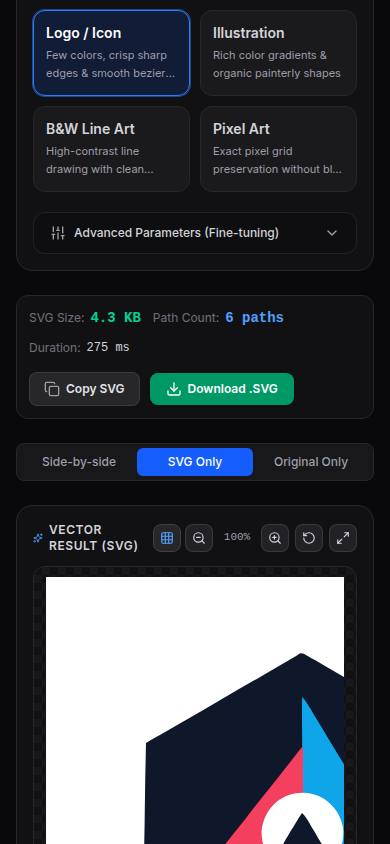
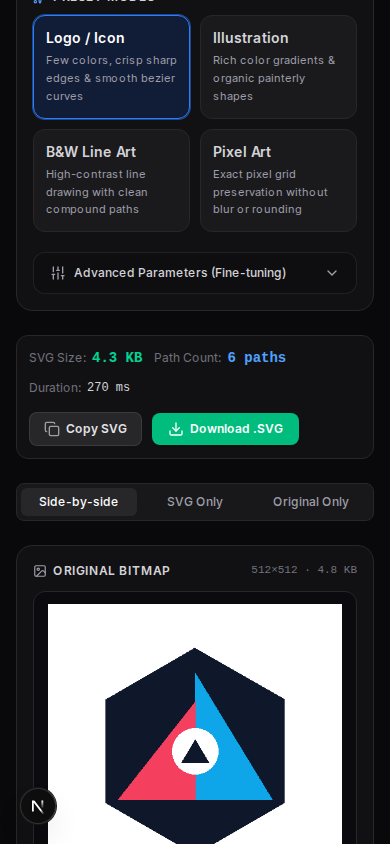
fix(image-to-svg): fix svg preview scaling with responsive viewBox and contain mode

Changed region(s): [[0.0308, 0.3697, 0.9231, 1.0], [0.0615, 0.0, 0.8615, 0.3389], [0.8308, 0.3081, 0.8615, 0.3389]]

diff --git a/src/components/tools/ImageToSvgTool.tsx b/src/components/tools/ImageToSvgTool.tsx
@@ -20,7 +20,6 @@ import {
     Grid,
     RefreshCw,
     AlertCircle,
-    Info,
 } from "lucide-react";
 import { cn, formatBytes } from "@/lib/utils";
 import { useLanguage } from "@/context/LanguageContext";
@@ -44,7 +43,7 @@ interface UploadedFileInfo {
 }
 
 export function ImageToSvgTool() {
-    const { t, language } = useLanguage();
+    const { language } = useLanguage();
     const isCn = language === "cn";
 
     // VTracer Worker Client instance ref
@@ -73,6 +72,7 @@ export function ImageToSvgTool() {
     const [result, setResult] = useState<TraceResult | null>(null);
 
     // Preview state
+    const [isFit, setIsFit] = useState(true);
     const [zoom, setZoom] = useState(1);
     const [checkerboard, setCheckerboard] = useState(true);
     const [copied, setCopied] = useState(false);
@@ -147,6 +147,7 @@ export function ImageToSvgTool() {
             };
             setImageInfo(uploaded);
             setResult(null);
+            setIsFit(true);
             setZoom(1);
 
             // Automatically start conversion
@@ -303,6 +304,59 @@ export function ImageToSvgTool() {
         runConversion(imageInfo);
     };
 
+    // Base dimensions for responsive layout and zoom calculation
+    const baseWidth = result?.scaledWidth || imageInfo?.width || 512;
+    const baseHeight = result?.scaledHeight || imageInfo?.height || 512;
+
+    // Prepared SVG markup ensuring responsive viewBox and width/height="100%" for clean container scaling
+    const previewSvg = useMemo(() => {
+        if (!result?.svg) return "";
+        let svg = result.svg;
+        if (!/\bviewBox\s*=/i.test(svg)) {
+            svg = svg.replace(/<svg\b/i, `<svg viewBox="0 0 ${baseWidth} ${baseHeight}"`);
+        }
+        if (/\bwidth=["'][^"']*["']/i.test(svg)) {
+            svg = svg.replace(/\bwidth=["'][^"']*["']/i, 'width="100%"');
+        } else {
+            svg = svg.replace(/<svg\b/i, '<svg width="100%"');
+        }
+        if (/\bheight=["'][^"']*["']/i.test(svg)) {
+            svg = svg.replace(/\bheight=["'][^"']*["']/i, 'height="100%"');
+        } else {
+            svg = svg.replace(/<svg\b/i, '<svg height="100%"');
+        }
+        return svg;
+    }, [result?.svg, baseWidth, baseHeight]);
+
+    // Zoom handlers based on SVG actual size (100% = 1:1 pixel size)
+    const handleZoomIn = () => {
+        if (isFit) {
+            setIsFit(false);
+            setZoom(1);
+        } else {
+            setZoom((z) => Math.min(4, Math.round((z + 0.25) * 100) / 100));
+        }
+    };
+
+    const handleZoomOut = () => {
+        if (isFit) {
+            setIsFit(false);
+            setZoom(0.75);
+        } else {
+            setZoom((z) => Math.max(0.25, Math.round((z - 0.25) * 100) / 100));
+        }
+    };
+
+    const handleZoom100 = () => {
+        setIsFit(false);
+        setZoom(1);
+    };
+
+    const handleResetFit = () => {
+        setIsFit(true);
+        setZoom(1);
+    };
+
     return (
         <div className="w-full flex flex-col gap-6">
             {/* Top Reassurance Banner */}
@@ -445,6 +499,8 @@ export function ImageToSvgTool() {
                                     onClick={() => {
                                         setImageInfo(null);
                                         setResult(null);
+                                        setIsFit(true);
+                                        setZoom(1);
                                     }}
                                     className="px-3 py-1.5 rounded-lg bg-zinc-800 hover:bg-zinc-700 text-xs font-medium text-zinc-300 border border-zinc-700 transition-colors"
                                 >
@@ -744,7 +800,7 @@ export function ImageToSvgTool() {
                         {/* 2. SVG Vector Preview */}
                         {(mobileTab === "compare" || mobileTab === "svg") && (
                             <div className="bg-zinc-900/60 border border-zinc-800 rounded-2xl p-4 flex flex-col gap-3">
-                                <div className="flex items-center justify-between">
+                                <div className="flex flex-wrap items-center justify-between gap-2">
                                     <span className="text-xs font-semibold text-zinc-300 uppercase tracking-wider flex items-center gap-1.5">
                                         <Sparkles className="w-3.5 h-3.5 text-blue-400" />
                                         {isCn ? "矢量化结果 (Scalable Vector)" : "Vector Result (SVG)"}
@@ -767,28 +823,63 @@ export function ImageToSvgTool() {
                                         </button>
                                         <button
                                             type="button"
-                                            onClick={() => setZoom((z) => Math.max(0.5, Math.round((z - 0.25) * 100) / 100))}
+                                            onClick={handleZoomOut}
                                             title={isCn ? "缩小" : "Zoom out"}
-                                            className="p-1.5 rounded-lg bg-zinc-800/80 hover:bg-zinc-700 border border-zinc-700/80 text-zinc-300 text-xs"
+                                            className="p-1.5 rounded-lg bg-zinc-800/80 hover:bg-zinc-700 border border-zinc-700/80 text-zinc-300 text-xs transition-colors"
                                         >
                                             <ZoomOut className="w-3.5 h-3.5" />
                                         </button>
-                                        <span className="text-[11px] font-mono text-zinc-400 w-10 text-center">
-                                            {Math.round(zoom * 100)}%
-                                        </span>
                                         <button
                                             type="button"
-                                            onClick={() => setZoom((z) => Math.min(4, Math.round((z + 0.25) * 100) / 100))}
+                                            onClick={() => {
+                                                if (isFit) {
+                                                    handleZoom100();
+                                                } else if (zoom === 1) {
+                                                    handleResetFit();
+                                                } else {
+                                                    handleZoom100();
+                                                }
+                                            }}
+                                            title={
+                                                isFit
+                                                    ? (isCn ? "当前为适应视图，点击切换至 100% 实际大小" : "Fit view. Click for 100% actual size")
+                                                    : (isCn ? "点击重置为 100% 实际大小" : "Click to reset to 100% actual size")
+                                            }
+                                            className="px-2 py-1 rounded-lg bg-zinc-800/80 hover:bg-zinc-700 border border-zinc-700/80 text-[11px] font-mono text-zinc-300 hover:text-white transition-colors"
+                                        >
+                                            {isFit ? (isCn ? "适应" : "Fit") : `${Math.round(zoom * 100)}%`}
+                                        </button>
+                                        <button
+                                            type="button"
+                                            onClick={handleZoomIn}
                                             title={isCn ? "放大" : "Zoom in"}
-                                            className="p-1.5 rounded-lg bg-zinc-800/80 hover:bg-zinc-700 border border-zinc-700/80 text-zinc-300 text-xs"
+                                            className="p-1.5 rounded-lg bg-zinc-800/80 hover:bg-zinc-700 border border-zinc-700/80 text-zinc-300 text-xs transition-colors"
                                         >
                                             <ZoomIn className="w-3.5 h-3.5" />
                                         </button>
                                         <button
                                             type="button"
-                                            onClick={() => setZoom(1)}
-                                            title={isCn ? "重置缩放 (100%)" : "Reset zoom (100%)"}
-                                            className="p-1.5 rounded-lg bg-zinc-800/80 hover:bg-zinc-700 border border-zinc-700/80 text-zinc-300 text-xs ml-0.5"
+                                            onClick={handleZoom100}
+                                            title={isCn ? "100% 实际尺寸 (1:1)" : "100% actual size (1:1)"}
+                                            className={cn(
+                                                "px-2 py-1 rounded-lg text-xs font-mono font-medium transition-colors border",
+                                                !isFit && zoom === 1
+                                                    ? "bg-blue-600/20 border-blue-500/60 text-blue-400"
+                                                    : "bg-zinc-800/80 hover:bg-zinc-700 border-zinc-700/80 text-zinc-300 hover:text-white"
+                                            )}
+                                        >
+                                            100%
+                                        </button>
+                                        <button
+                                            type="button"
+                                            onClick={handleResetFit}
+                                            title={isCn ? "复位 (恢复默认适应视图)" : "Reset to fit (Contain)"}
+                                            className={cn(
+                                                "p-1.5 rounded-lg border text-xs ml-0.5 transition-colors",
+                                                isFit
+                                                    ? "bg-blue-600/20 border-blue-500/60 text-blue-400"
+                                                    : "bg-zinc-800/80 hover:bg-zinc-700 border-zinc-700/80 text-zinc-300 hover:text-white"
+                                            )}
                                         >
                                             <RotateCcw className="w-3.5 h-3.5" />
                                         </button>
@@ -796,7 +887,7 @@ export function ImageToSvgTool() {
                                             type="button"
                                             onClick={() => setModalOpen(true)}
                                             title={isCn ? "全屏大图查看" : "Full window inspection"}
-                                            className="p-1.5 rounded-lg bg-zinc-800/80 hover:bg-zinc-700 border border-zinc-700/80 text-zinc-300 text-xs ml-0.5"
+                                            className="p-1.5 rounded-lg bg-zinc-800/80 hover:bg-zinc-700 border border-zinc-700/80 text-zinc-300 text-xs ml-0.5 transition-colors"
                                         >
                                             <Maximize2 className="w-3.5 h-3.5" />
                                         </button>
@@ -817,15 +908,26 @@ export function ImageToSvgTool() {
                                             <p className="text-xs">{progress?.label || (isCn ? "正在生成矢量路径..." : "Generating vector geometry...")}</p>
                                         </div>
                                     ) : result ? (
-                                        <div
-                                            style={{
-                                                transform: `scale(${zoom})`,
-                                                transformOrigin: "center center",
-                                                transition: "transform 150ms ease-out",
-                                            }}
-                                            className="max-w-full max-h-full flex items-center justify-center [&>svg]:max-w-full [&>svg]:max-h-full [&>svg]:h-auto [&>svg]:w-auto"
-                                            dangerouslySetInnerHTML={{ __html: result.svg }}
-                                        />
+                                        isFit ? (
+                                            <div className="w-full h-full flex items-center justify-center select-none">
+                                                <div
+                                                    className="w-full h-full flex items-center justify-center [&>svg]:max-w-full [&>svg]:max-h-full [&>svg]:w-auto [&>svg]:h-auto"
+                                                    dangerouslySetInnerHTML={{ __html: previewSvg }}
+                                                />
+                                            </div>
+                                        ) : (
+                                            <div className="min-w-full min-h-full flex items-center justify-center m-auto select-none p-3">
+                                                <div
+                                                    style={{
+                                                        width: `${baseWidth * zoom}px`,
+                                                        height: `${baseHeight * zoom}px`,
+                                                        transition: "width 150ms ease-out, height 150ms ease-out",
+                                                    }}
+                                                    className="shrink-0 flex items-center justify-center [&>svg]:w-full [&>svg]:h-full [&>svg]:max-w-none [&>svg]:max-h-none"
+                                                    dangerouslySetInnerHTML={{ __html: previewSvg }}
+                                                />
+                                            </div>
+                                        )
                                     ) : (
                                         <p className="text-xs text-zinc-500">
                                             {isCn ? "等待转换..." : "Waiting for vector rendering..."}
@@ -878,8 +980,8 @@ export function ImageToSvgTool() {
                         onClick={(e) => e.stopPropagation()}
                     >
                         <div
-                            className="max-w-full max-h-full flex items-center justify-center [&>svg]:max-w-full [&>svg]:max-h-full [&>svg]:w-auto [&>svg]:h-auto"
-                            dangerouslySetInnerHTML={{ __html: result.svg }}
+                            className="w-full h-full max-w-full max-h-full flex items-center justify-center [&>svg]:max-w-full [&>svg]:max-h-full [&>svg]:w-auto [&>svg]:h-auto"
+                            dangerouslySetInnerHTML={{ __html: previewSvg }}
                         />
                     </div>
                 </div>

diff --git a/src/lib/vtracer-client.ts b/src/lib/vtracer-client.ts
@@ -130,6 +130,30 @@ export interface TraceResult {
 }
 
 /**
+ * Ensure an SVG string contains a valid viewBox attribute.
+ * If viewBox is missing, parses width/height from the <svg> tag or uses fallbacks.
+ */
+export function ensureSvgViewBox(svgString: string, defaultWidth?: number, defaultHeight?: number): string {
+    if (!svgString) return svgString;
+    if (/\bviewBox\s*=/i.test(svgString)) return svgString;
+
+    const svgTagMatch = svgString.match(/<svg\b([^>]*)>/i);
+    if (!svgTagMatch) return svgString;
+
+    const attributes = svgTagMatch[1];
+    const widthMatch = attributes.match(/\bwidth=["']?([0-9.]+)(?:px)?["']?/i);
+    const heightMatch = attributes.match(/\bheight=["']?([0-9.]+)(?:px)?["']?/i);
+
+    const w = widthMatch ? widthMatch[1] : (defaultWidth ? String(defaultWidth) : null);
+    const h = heightMatch ? heightMatch[1] : (defaultHeight ? String(defaultHeight) : null);
+
+    if (w && h) {
+        return svgString.replace(/<svg\b/i, `<svg viewBox="0 0 ${w} ${h}"`);
+    }
+    return svgString;
+}
+
+/**
  * Remove full-canvas background rect/path from SVG if requested.
  */
 export function stripSvgBackground(svgString: string): string {
@@ -288,8 +312,9 @@ export class VTracerClient {
             }
         });
 
-        // Background removal post-pass if enabled
-        const finalSvg = customOptions.removeBackground ? stripSvgBackground(rawSvg) : rawSvg;
+        // Ensure viewBox attribute is present and handle background removal
+        const rawWithViewBox = ensureSvgViewBox(rawSvg, scaledWidth, scaledHeight);
+        const finalSvg = customOptions.removeBackground ? stripSvgBackground(rawWithViewBox) : rawWithViewBox;
         const durationMs = Math.round(performance.now() - startTime);
         const pathCount = countSvgPaths(finalSvg);
         const sizeBytes = new Blob([finalSvg], { type: "image/svg+xml" }).size;
